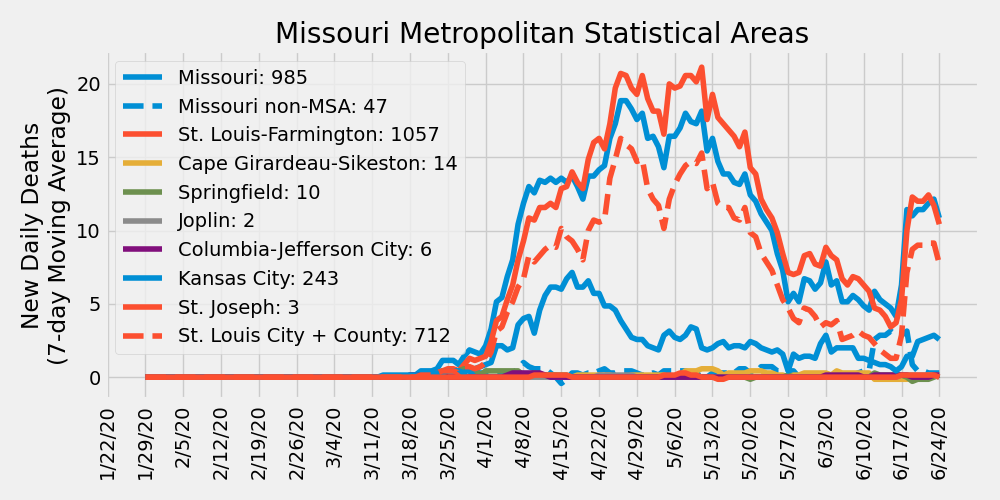
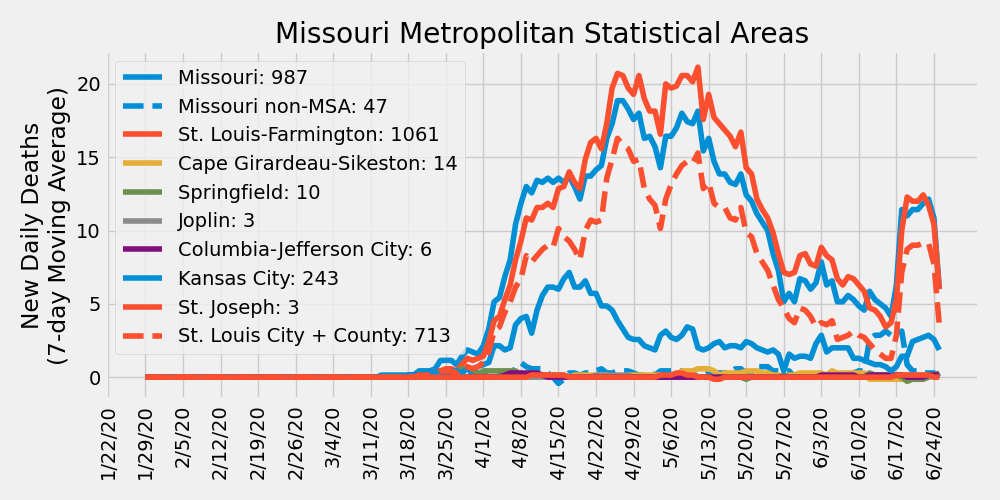
update 6/26/2020

diff --git a/ajvogt-analysis/missouri_analysis.md b/ajvogt-analysis/missouri_analysis.md
@@ -1,6 +1,6 @@
 # COVID-19 Missouri Statistics & Regional Breakdowns
 Author: Adam J. Vogt  
-Updated: 06/25/2020  
+Updated: 06/26/2020  
 Source: [COVID-19 Data Repository by the Center for Systems Science and Engineering (CSSE) at Johns Hopkins University](https://github.com/CSSEGISandData/COVID-19)  
 Source Code: `/ajvogt-analysis/mo_analysis_script.py`
 
@@ -26,67 +26,67 @@ Legend shows cumulative confirmed cases
 ## Metropolitan Statistical Area (MSA) Counties
 | MSA | State | County | Total Cases | Total Deaths |
 |-----|-------|--------|---|---|
-| St. Louis-Farmington | Missouri | Lincoln | 95 | 1 |
-| St. Louis-Farmington | Missouri | Warren | 34 | 0 |
-| St. Louis-Farmington | Missouri | Franklin | 192 | 18 |
-| St. Louis-Farmington | Missouri | Jefferson | 428 | 19 |
-| St. Louis-Farmington | Missouri | St. Charles | 974 | 73 |
-| St. Louis-Farmington | Missouri | St. Louis | 6004 | 558 |
-| St. Louis-Farmington | Missouri | St. Louis City | 2142 | 154 |
-| St. Louis-Farmington | Missouri | St. Francois | 97 | 2 |
-| St. Louis-Farmington | Illinois | Monroe | 117 | 12 |
-| St. Louis-Farmington | Illinois | St. Clair | 1671 | 130 |
-| St. Louis-Farmington | Illinois | Madison | 841 | 68 |
-| St. Louis-Farmington | Illinois | Macoupin | 48 | 3 |
-| St. Louis-Farmington | Illinois | Jersey | 33 | 1 |
-| St. Louis-Farmington | Illinois | Clinton | 224 | 17 |
+| St. Louis-Farmington | Missouri | Lincoln | 96 | 1 |
+| St. Louis-Farmington | Missouri | Warren | 37 | 0 |
+| St. Louis-Farmington | Missouri | Franklin | 201 | 18 |
+| St. Louis-Farmington | Missouri | Jefferson | 432 | 19 |
+| St. Louis-Farmington | Missouri | St. Charles | 995 | 73 |
+| St. Louis-Farmington | Missouri | St. Louis | 6092 | 558 |
+| St. Louis-Farmington | Missouri | St. Louis City | 2213 | 155 |
+| St. Louis-Farmington | Missouri | St. Francois | 100 | 2 |
+| St. Louis-Farmington | Illinois | Monroe | 118 | 13 |
+| St. Louis-Farmington | Illinois | St. Clair | 1694 | 132 |
+| St. Louis-Farmington | Illinois | Madison | 872 | 68 |
+| St. Louis-Farmington | Illinois | Macoupin | 50 | 3 |
+| St. Louis-Farmington | Illinois | Jersey | 34 | 1 |
+| St. Louis-Farmington | Illinois | Clinton | 226 | 17 |
 | St. Louis-Farmington | Illinois | Calhoun | 1 | 0 |
 | St. Louis-Farmington | Illinois | Bond | 12 | 1 |
-| Cape Girardeau-Sikeston | Missouri | Cape Girardeau | 123 | 3 |
+| Cape Girardeau-Sikeston | Missouri | Cape Girardeau | 126 | 3 |
 | Cape Girardeau-Sikeston | Missouri | Bollinger | 12 | 0 |
 | Cape Girardeau-Sikeston | Illinois | Alexander | 21 | 0 |
 | Cape Girardeau-Sikeston | Missouri | Scott | 159 | 11 |
-| Springfield | Missouri | Greene | 238 | 8 |
-| Springfield | Missouri | Christian | 37 | 0 |
-| Springfield | Missouri | Webster | 23 | 1 |
+| Springfield | Missouri | Greene | 246 | 8 |
+| Springfield | Missouri | Christian | 38 | 0 |
+| Springfield | Missouri | Webster | 24 | 1 |
 | Springfield | Missouri | Polk | 11 | 0 |
 | Springfield | Missouri | Dallas | 12 | 1 |
-| Joplin | Missouri | Jasper | 334 | 0 |
-| Joplin | Missouri | Newton | 301 | 2 |
+| Joplin | Missouri | Jasper | 389 | 1 |
+| Joplin | Missouri | Newton | 312 | 2 |
 | Columbia-Jefferson City | Missouri | Howard | 5 | 0 |
-| Columbia-Jefferson City | Missouri | Boone | 288 | 2 |
-| Columbia-Jefferson City | Missouri | Cooper | 13 | 0 |
+| Columbia-Jefferson City | Missouri | Boone | 298 | 2 |
+| Columbia-Jefferson City | Missouri | Cooper | 14 | 0 |
 | Columbia-Jefferson City | Missouri | Moniteau | 49 | 1 |
-| Columbia-Jefferson City | Missouri | Cole | 64 | 2 |
-| Columbia-Jefferson City | Missouri | Callaway | 46 | 1 |
+| Columbia-Jefferson City | Missouri | Cole | 63 | 2 |
+| Columbia-Jefferson City | Missouri | Callaway | 45 | 1 |
 | Columbia-Jefferson City | Missouri | Osage | 6 | 0 |
-| Kansas City | Missouri | Kansas City | 2057 | 31 |
-| Kansas City | Missouri | Jackson | 1076 | 23 |
-| Kansas City | Missouri | Clay | 375 | 8 |
-| Kansas City | Missouri | Cass | 116 | 8 |
-| Kansas City | Missouri | Platte | 107 | 4 |
-| Kansas City | Missouri | Lafayette | 86 | 2 |
+| Kansas City | Missouri | Kansas City | 2162 | 31 |
+| Kansas City | Missouri | Jackson | 1074 | 23 |
+| Kansas City | Missouri | Clay | 386 | 8 |
+| Kansas City | Missouri | Cass | 120 | 8 |
+| Kansas City | Missouri | Platte | 108 | 4 |
+| Kansas City | Missouri | Lafayette | 87 | 2 |
 | Kansas City | Missouri | Ray | 25 | 0 |
 | Kansas City | Missouri | Clinton | 23 | 0 |
 | Kansas City | Missouri | Bates | 12 | 1 |
 | Kansas City | Missouri | Caldwell | 9 | 0 |
-| Kansas City | Kansas | Johnson | 1370 | 81 |
-| Kansas City | Kansas | Wyandotte | 1988 | 78 |
+| Kansas City | Kansas | Johnson | 1427 | 81 |
+| Kansas City | Kansas | Wyandotte | 2016 | 78 |
 | Kansas City | Kansas | Leavenworth | 1137 | 7 |
 | Kansas City | Kansas | Miami | 26 | 0 |
 | Kansas City | Kansas | Linn | 12 | 0 |
 | St. Joseph | Missouri | Andrew | 45 | 0 |
-| St. Joseph | Missouri | Buchanan | 819 | 3 |
+| St. Joseph | Missouri | Buchanan | 827 | 3 |
 | St. Joseph | Missouri | DeKalb | 10 | 0 |
 | St. Joseph | Kansas | Doniphan | 25 | 0 |
-| Missouri non-MSA | Missouri | Adair |  87 | 0 |
+| Missouri non-MSA | Missouri | Adair |  88 | 0 |
 | Missouri non-MSA | Missouri | Atchison |  3 | 0 |
 | Missouri non-MSA | Missouri | Audrain |  137 | 1 |
-| Missouri non-MSA | Missouri | Barry |  32 | 0 |
-| Missouri non-MSA | Missouri | Barton |  17 | 0 |
+| Missouri non-MSA | Missouri | Barry |  34 | 0 |
+| Missouri non-MSA | Missouri | Barton |  21 | 0 |
 | Missouri non-MSA | Missouri | Benton |  16 | 0 |
-| Missouri non-MSA | Missouri | Butler |  68 | 0 |
-| Missouri non-MSA | Missouri | Camden |  55 | 1 |
+| Missouri non-MSA | Missouri | Butler |  71 | 0 |
+| Missouri non-MSA | Missouri | Camden |  57 | 1 |
 | Missouri non-MSA | Missouri | Carroll |  11 | 0 |
 | Missouri non-MSA | Missouri | Carter |  6 | 1 |
 | Missouri non-MSA | Missouri | Cedar |  9 | 0 |
@@ -95,60 +95,60 @@ Legend shows cumulative confirmed cases
 | Missouri non-MSA | Missouri | Crawford |  10 | 0 |
 | Missouri non-MSA | Missouri | Dade |  1 | 0 |
 | Missouri non-MSA | Missouri | Daviess |  7 | 0 |
-| Missouri non-MSA | Missouri | Dent |  2 | 0 |
+| Missouri non-MSA | Missouri | Dent |  3 | 0 |
 | Missouri non-MSA | Missouri | Douglas |  3 | 0 |
-| Missouri non-MSA | Missouri | Dunklin |  82 | 3 |
-| Missouri non-MSA | Missouri | Gasconade |  6 | 0 |
-| Missouri non-MSA | Missouri | Gentry |  57 | 9 |
+| Missouri non-MSA | Missouri | Dunklin |  84 | 3 |
+| Missouri non-MSA | Missouri | Gasconade |  7 | 0 |
+| Missouri non-MSA | Missouri | Gentry |  56 | 9 |
 | Missouri non-MSA | Missouri | Grundy |  18 | 0 |
 | Missouri non-MSA | Missouri | Harrison |  12 | 0 |
-| Missouri non-MSA | Missouri | Henry |  17 | 3 |
+| Missouri non-MSA | Missouri | Henry |  19 | 3 |
 | Missouri non-MSA | Missouri | Hickory |  0 | 0 |
 | Missouri non-MSA | Missouri | Holt |  1 | 0 |
-| Missouri non-MSA | Missouri | Howell |  34 | 0 |
+| Missouri non-MSA | Missouri | Howell |  36 | 0 |
 | Missouri non-MSA | Missouri | Iron |  2 | 0 |
 | Missouri non-MSA | Missouri | Knox |  2 | 0 |
-| Missouri non-MSA | Missouri | Laclede |  20 | 0 |
+| Missouri non-MSA | Missouri | Laclede |  23 | 0 |
 | Missouri non-MSA | Missouri | Lawrence |  20 | 0 |
 | Missouri non-MSA | Missouri | Lewis |  7 | 1 |
 | Missouri non-MSA | Missouri | Livingston |  10 | 0 |
-| Missouri non-MSA | Missouri | McDonald |  422 | 1 |
+| Missouri non-MSA | Missouri | McDonald |  451 | 1 |
 | Missouri non-MSA | Missouri | Macon |  7 | 0 |
 | Missouri non-MSA | Missouri | Maries |  4 | 0 |
-| Missouri non-MSA | Missouri | Marion |  13 | 0 |
+| Missouri non-MSA | Missouri | Marion |  14 | 0 |
 | Missouri non-MSA | Missouri | Mercer |  5 | 0 |
 | Missouri non-MSA | Missouri | Miller |  11 | 0 |
-| Missouri non-MSA | Missouri | Mississippi |  80 | 0 |
-| Missouri non-MSA | Missouri | Montgomery |  15 | 0 |
+| Missouri non-MSA | Missouri | Mississippi |  82 | 0 |
+| Missouri non-MSA | Missouri | Montgomery |  16 | 0 |
 | Missouri non-MSA | Missouri | Morgan |  13 | 0 |
 | Missouri non-MSA | Missouri | New Madrid |  36 | 1 |
 | Missouri non-MSA | Missouri | Nodaway |  17 | 0 |
 | Missouri non-MSA | Missouri | Oregon |  6 | 0 |
 | Missouri non-MSA | Missouri | Ozark |  1 | 0 |
-| Missouri non-MSA | Missouri | Pemiscot |  108 | 6 |
-| Missouri non-MSA | Missouri | Perry |  111 | 0 |
-| Missouri non-MSA | Missouri | Pettis |  102 | 1 |
-| Missouri non-MSA | Missouri | Phelps |  12 | 0 |
-| Missouri non-MSA | Missouri | Pike |  34 | 1 |
-| Missouri non-MSA | Missouri | Pulaski |  115 | 1 |
+| Missouri non-MSA | Missouri | Pemiscot |  109 | 6 |
+| Missouri non-MSA | Missouri | Perry |  112 | 0 |
+| Missouri non-MSA | Missouri | Pettis |  110 | 1 |
+| Missouri non-MSA | Missouri | Phelps |  15 | 0 |
+| Missouri non-MSA | Missouri | Pike |  36 | 1 |
+| Missouri non-MSA | Missouri | Pulaski |  116 | 1 |
 | Missouri non-MSA | Missouri | Putnam |  2 | 0 |
 | Missouri non-MSA | Missouri | Ralls |  9 | 0 |
 | Missouri non-MSA | Missouri | Randolph |  12 | 0 |
 | Missouri non-MSA | Missouri | Reynolds |  2 | 0 |
-| Missouri non-MSA | Missouri | Ripley |  16 | 0 |
-| Missouri non-MSA | Missouri | Ste. Genevieve |  16 | 1 |
-| Missouri non-MSA | Missouri | Saline |  278 | 4 |
+| Missouri non-MSA | Missouri | Ripley |  17 | 0 |
+| Missouri non-MSA | Missouri | Ste. Genevieve |  17 | 1 |
+| Missouri non-MSA | Missouri | Saline |  282 | 4 |
 | Missouri non-MSA | Missouri | Schuyler |  4 | 0 |
 | Missouri non-MSA | Missouri | Scotland |  8 | 1 |
 | Missouri non-MSA | Missouri | Shannon |  6 | 0 |
 | Missouri non-MSA | Missouri | Shelby |  3 | 0 |
-| Missouri non-MSA | Missouri | Stoddard |  129 | 8 |
+| Missouri non-MSA | Missouri | Stoddard |  132 | 8 |
 | Missouri non-MSA | Missouri | Stone |  11 | 0 |
-| Missouri non-MSA | Missouri | Sullivan |  102 | 0 |
-| Missouri non-MSA | Missouri | Taney |  35 | 2 |
-| Missouri non-MSA | Missouri | Texas |  5 | 0 |
-| Missouri non-MSA | Missouri | Vernon |  13 | 0 |
-| Missouri non-MSA | Missouri | Washington |  17 | 1 |
+| Missouri non-MSA | Missouri | Sullivan |  108 | 0 |
+| Missouri non-MSA | Missouri | Taney |  39 | 2 |
+| Missouri non-MSA | Missouri | Texas |  4 | 0 |
+| Missouri non-MSA | Missouri | Vernon |  15 | 0 |
+| Missouri non-MSA | Missouri | Washington |  19 | 1 |
 | Missouri non-MSA | Missouri | Wayne |  3 | 0 |
 | Missouri non-MSA | Missouri | Worth |  4 | 0 |
 | Missouri non-MSA | Missouri | Wright |  14 | 0 |
